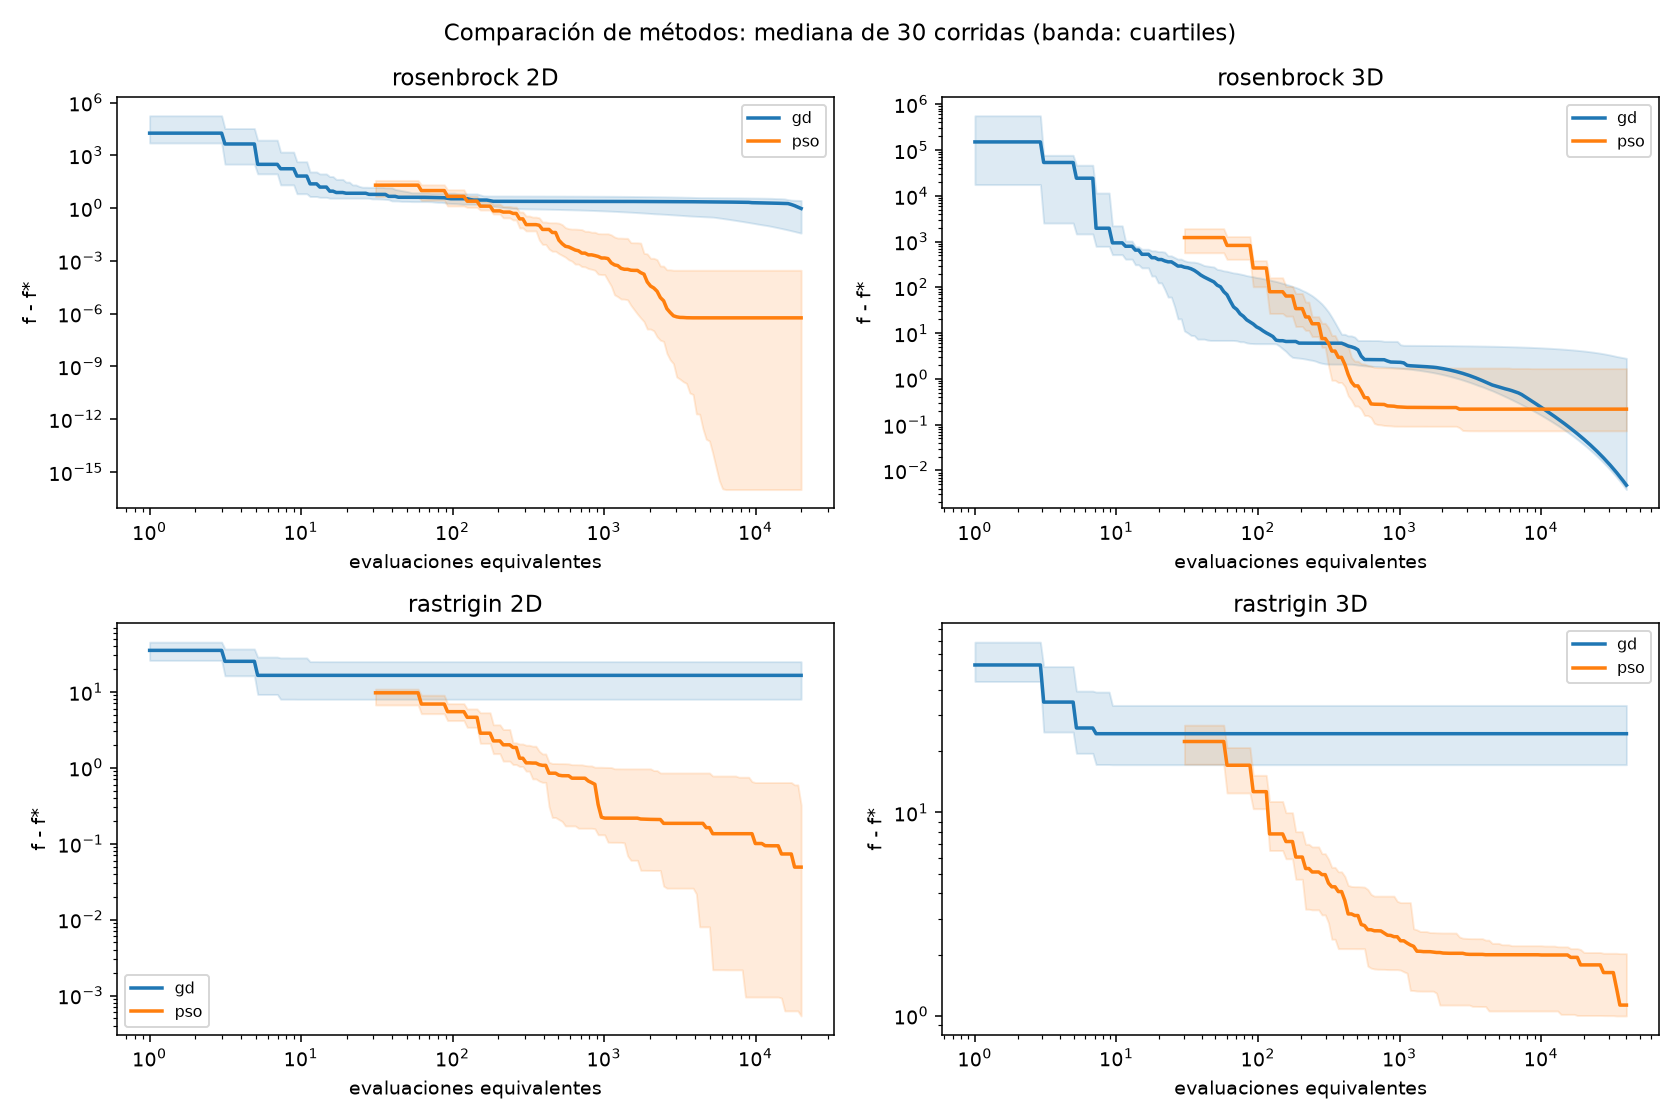
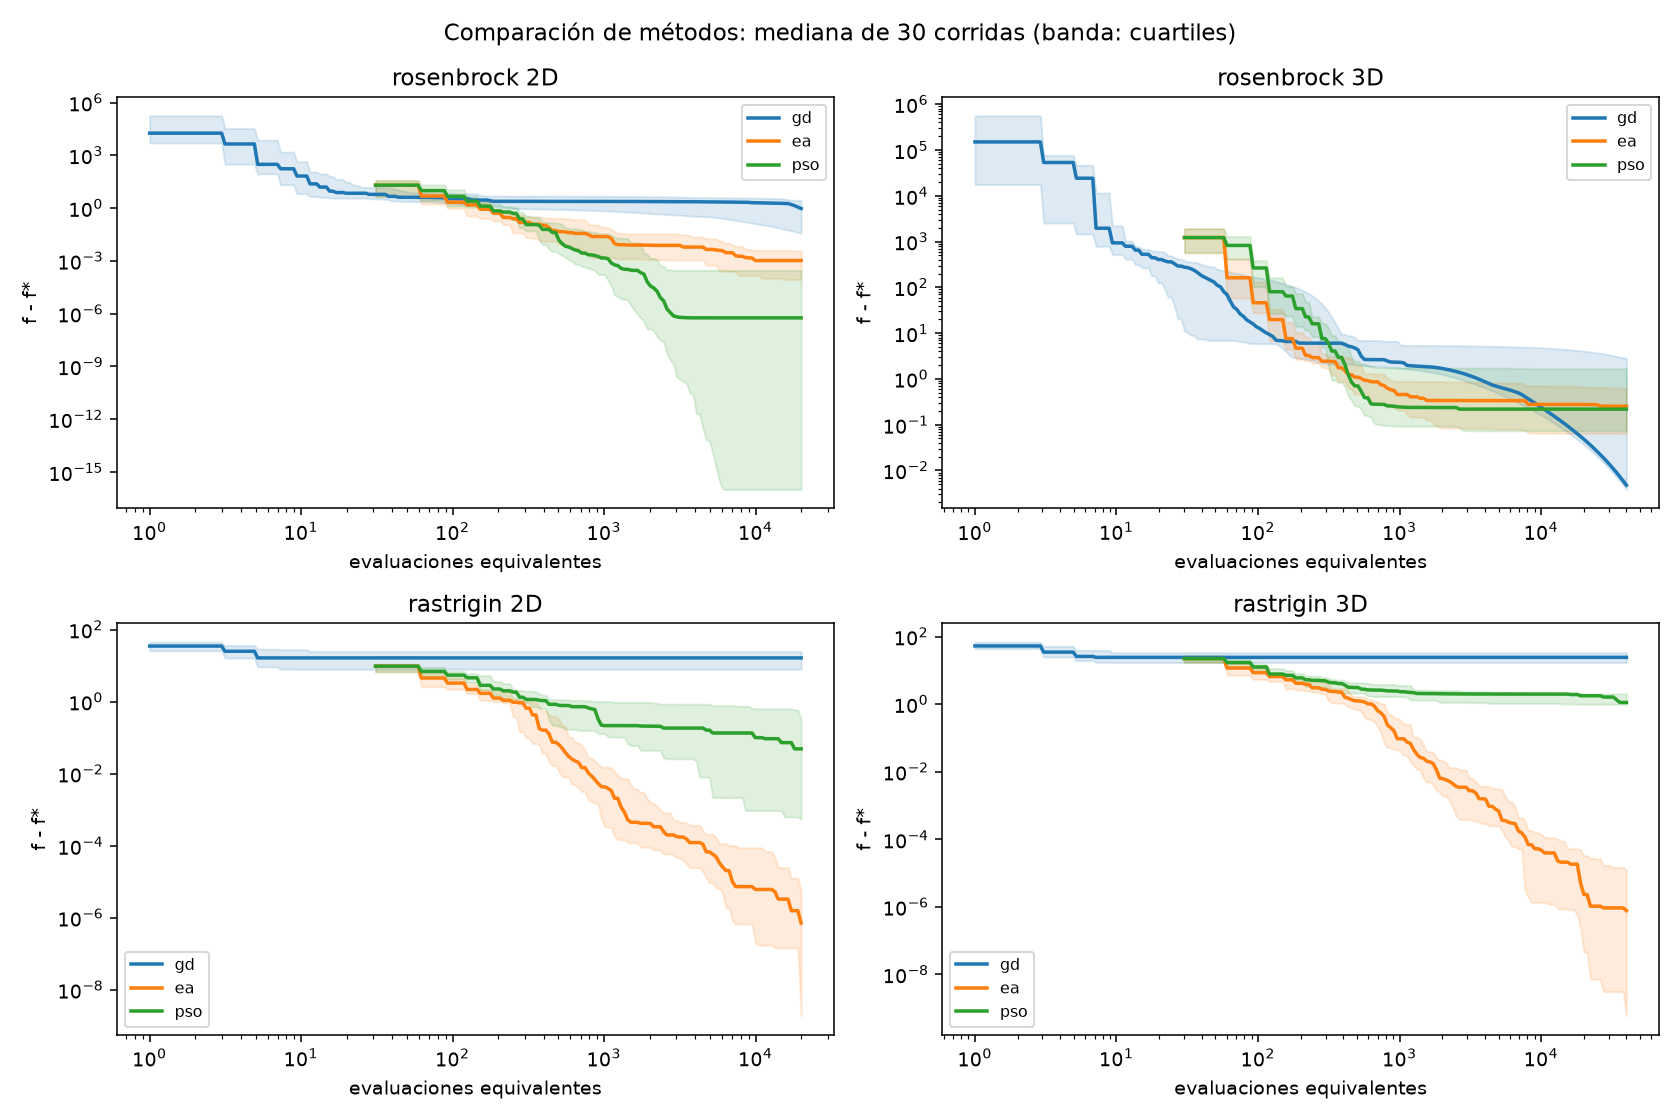
evolución diferencial
implementa la optimizacion por evolucion diferencial, prueba especifica y los datos necesarios en compare y compare_demo.

diff --git a/src/differential_evolution.py b/src/differential_evolution.py
@@ -1,0 +1,101 @@
+"""Evolución diferencial DE/rand/1/bin para minimizar funciones continuas.
+
+Compatible con el contrato del proyecto (ver src/result.py):
+    run_de(problem, seed, budget, grad_cost=1.0, **hiperparametros) -> RunResult
+
+Para cada individuo objetivo x_i de la población (generación sincrónica):
+    mutación:   v_i = x_r1 + F * (x_r2 - x_r3),   r1, r2, r3 distintos entre sí y distintos de i
+    cruce bin.: u_ij = v_ij  si rand_j < CR  o  j = j_rand;   u_ij = x_ij  en otro caso
+    selección:  x_i <- u_i  si f(u_i) <= f(x_i)
+
+Cada hijo cuesta una evaluación de f. Si queda un presupuesto parcial, solo se evalúan
+(y compiten) los primeros hijos que alcancen, de modo que nunca se excede el presupuesto.
+"""
+from __future__ import annotations
+
+import numpy as np
+
+from .result import RunResult
+
+
+def run_de(
+    problem,
+    seed: int,
+    budget: float,
+    grad_cost: float = 1.0,
+    population_size: int = 30,
+    F: float = 0.5,
+    CR: float = 0.9,
+) -> RunResult:
+    """Minimiza `problem.f` con DE/rand/1/bin. Los límites del dominio se imponen recortando."""
+    if budget < 1:
+        raise ValueError("budget debe ser al menos 1")
+    if population_size < 4:
+        raise ValueError("population_size debe ser al menos 4 (DE/rand/1 necesita 3 individuos distintos)")
+    if not 0 <= F <= 2:
+        raise ValueError("F debe estar entre 0 y 2")
+    if not 0 <= CR <= 1:
+        raise ValueError("CR debe estar entre 0 y 1")
+
+    rng = np.random.default_rng(seed)
+    lo = np.broadcast_to(np.asarray(problem.bounds[0], dtype=float), (problem.n,))
+    hi = np.broadcast_to(np.asarray(problem.bounds[1], dtype=float), (problem.n,))
+
+    # 1. Población inicial (nunca más grande que el presupuesto disponible)
+    n0 = min(population_size, int(budget))
+    pop = rng.uniform(lo, hi, size=(n0, problem.n))
+    fit = np.asarray(problem.f(pop), dtype=float).reshape(-1)
+
+    best_i = int(np.argmin(fit))
+    best_x = pop[best_i].copy()
+    best_f = float(fit[best_i])
+
+    result = RunResult(best_x=best_x.copy(), best_f=best_f, f_evals=0, grad_evals=0)
+    result.history_f.append(best_f)
+    result.history_x.append(best_x.copy())
+    result.history_evals.append(problem.equivalent_evals(grad_cost))
+
+    # 2. Generaciones hasta agotar el presupuesto.
+    # Si n0 < population_size el presupuesto ya se agotó y el ciclo no corre.
+    while problem.equivalent_evals(grad_cost) < budget:
+        remaining = int(budget - problem.equivalent_evals(grad_cost))
+        if remaining <= 0:
+            break
+        np_ = len(pop)
+
+        # r1, r2, r3 distintos entre sí y distintos de i: tres primeros de una permutación
+        # aleatoria de los índices con i excluido.
+        keys = rng.random((np_, np_))
+        np.fill_diagonal(keys, np.inf)
+        r1, r2, r3 = np.argsort(keys, axis=1)[:, :3].T
+
+        # 3. Mutación
+        mutant = pop[r1] + F * (pop[r2] - pop[r3])
+
+        # 4. Cruce binomial (al menos una coordenada viene del mutante)
+        mask = rng.random((np_, problem.n)) < CR
+        mask[np.arange(np_), rng.integers(0, problem.n, size=np_)] = True
+        trial = np.clip(np.where(mask, mutant, pop), lo, hi)
+
+        # 5. Evaluación (solo lo que alcance el presupuesto) y selección uno a uno
+        n_eval = min(np_, remaining)
+        trial_f = np.asarray(problem.f(trial[:n_eval]), dtype=float).reshape(-1)
+        better = trial_f <= fit[:n_eval]
+        pop[:n_eval][better] = trial[:n_eval][better]
+        fit[:n_eval][better] = trial_f[better]
+
+        best_i = int(np.argmin(fit))
+        if fit[best_i] < best_f:
+            best_f = float(fit[best_i])
+            best_x = pop[best_i].copy()
+
+        result.best_x = best_x.copy()
+        result.best_f = best_f
+        result.history_f.append(best_f)
+        result.history_x.append(best_x.copy())
+        result.history_evals.append(problem.equivalent_evals(grad_cost))
+
+    result.f_evals = problem.f_evals
+    result.grad_evals = problem.grad_evals
+    result.stop_reason = "budget"
+    return result

diff --git a/tests/test_differential_evolution.py b/tests/test_differential_evolution.py
@@ -1,0 +1,73 @@
+import numpy as np
+import pytest
+
+from src.counter import CountedProblem
+from src.differential_evolution import run_de
+from src.functions import Rastrigin, Rosenbrock
+from src.result import check_result
+
+
+@pytest.mark.parametrize("fn", [Rosenbrock(2), Rastrigin(3)])
+@pytest.mark.parametrize("budget", [137, 150, 17.5])
+def test_de_respeta_contrato_y_presupuesto(fn, budget):
+    problem = CountedProblem(fn)
+    result = run_de(problem, seed=13, budget=budget, population_size=10)
+    check_result(result, problem, budget, grad_cost=1.0)
+    assert result.stop_reason == "budget"
+    assert problem.f_evals <= budget  # presupuesto exacto, incluso parcial
+    assert problem.grad_evals == 0
+    assert len(result.history_x) == len(result.history_f)
+
+
+def test_de_gasta_exactamente_el_presupuesto_entero():
+    problem = CountedProblem(Rosenbrock(2))
+    run_de(problem, seed=1, budget=95, population_size=10)
+    assert problem.f_evals == 95
+
+
+def test_de_es_reproducible():
+    a = run_de(CountedProblem(Rosenbrock(2)), seed=4, budget=200, population_size=12)
+    b = run_de(CountedProblem(Rosenbrock(2)), seed=4, budget=200, population_size=12)
+    assert np.array_equal(a.best_x, b.best_x)
+    assert a.history_f == b.history_f
+    assert a.history_evals == b.history_evals
+
+
+def test_de_semillas_distintas_dan_resultados_distintos():
+    a = run_de(CountedProblem(Rastrigin(2)), seed=1, budget=200)
+    b = run_de(CountedProblem(Rastrigin(2)), seed=2, budget=200)
+    assert not np.array_equal(a.best_x, b.best_x)
+
+
+def test_de_mejora_o_conserva_el_mejor():
+    result = run_de(CountedProblem(Rastrigin(2)), seed=9, budget=300, population_size=20)
+    assert all(b <= a for a, b in zip(result.history_f, result.history_f[1:]))
+
+
+def test_de_converge_en_rosenbrock_2d():
+    problem = CountedProblem(Rosenbrock(2))
+    result = run_de(problem, seed=0, budget=6000)
+    assert result.best_f < 1e-3
+
+
+def test_de_con_F_cero_y_CR_cero_no_se_mueve_mas_de_una_coordenada():
+    # CR=0 -> solo la coordenada j_rand viene del mutante; con F=0 el mutante es x_r1.
+    result = run_de(CountedProblem(Rosenbrock(2)), seed=3, budget=100, population_size=10, F=0.0, CR=0.0)
+    assert np.isfinite(result.best_f)
+
+
+@pytest.mark.parametrize("kwargs", [
+    {"population_size": 3},
+    {"F": -0.1},
+    {"F": 2.5},
+    {"CR": 1.2},
+    {"CR": -0.1},
+])
+def test_de_rechaza_hiperparametros_invalidos(kwargs):
+    with pytest.raises(ValueError):
+        run_de(CountedProblem(Rosenbrock(2)), seed=1, budget=20, **kwargs)
+
+
+def test_de_rechaza_presupuesto_invalido():
+    with pytest.raises(ValueError):
+        run_de(CountedProblem(Rosenbrock(2)), seed=1, budget=0)

diff --git a/src/methods.py b/src/methods.py
@@ -5,6 +5,7 @@ a METHODS. experiments/compare.py lo toma de aquí por su nombre en el YAML.
 """
 from __future__ import annotations
 
+from .differential_evolution import run_de
 from .evolutionary_algorithm import run_ea
 from .gradient_descent import run_gd
 from .particle_swarm import run_pso
@@ -13,5 +14,5 @@ METHODS = {
     "gd": run_gd,
     "ea": run_ea,
     "pso": run_pso,
-    # "de": run_de,  # evolución diferencial (integrante 2)
+    "de": run_de,
 }
